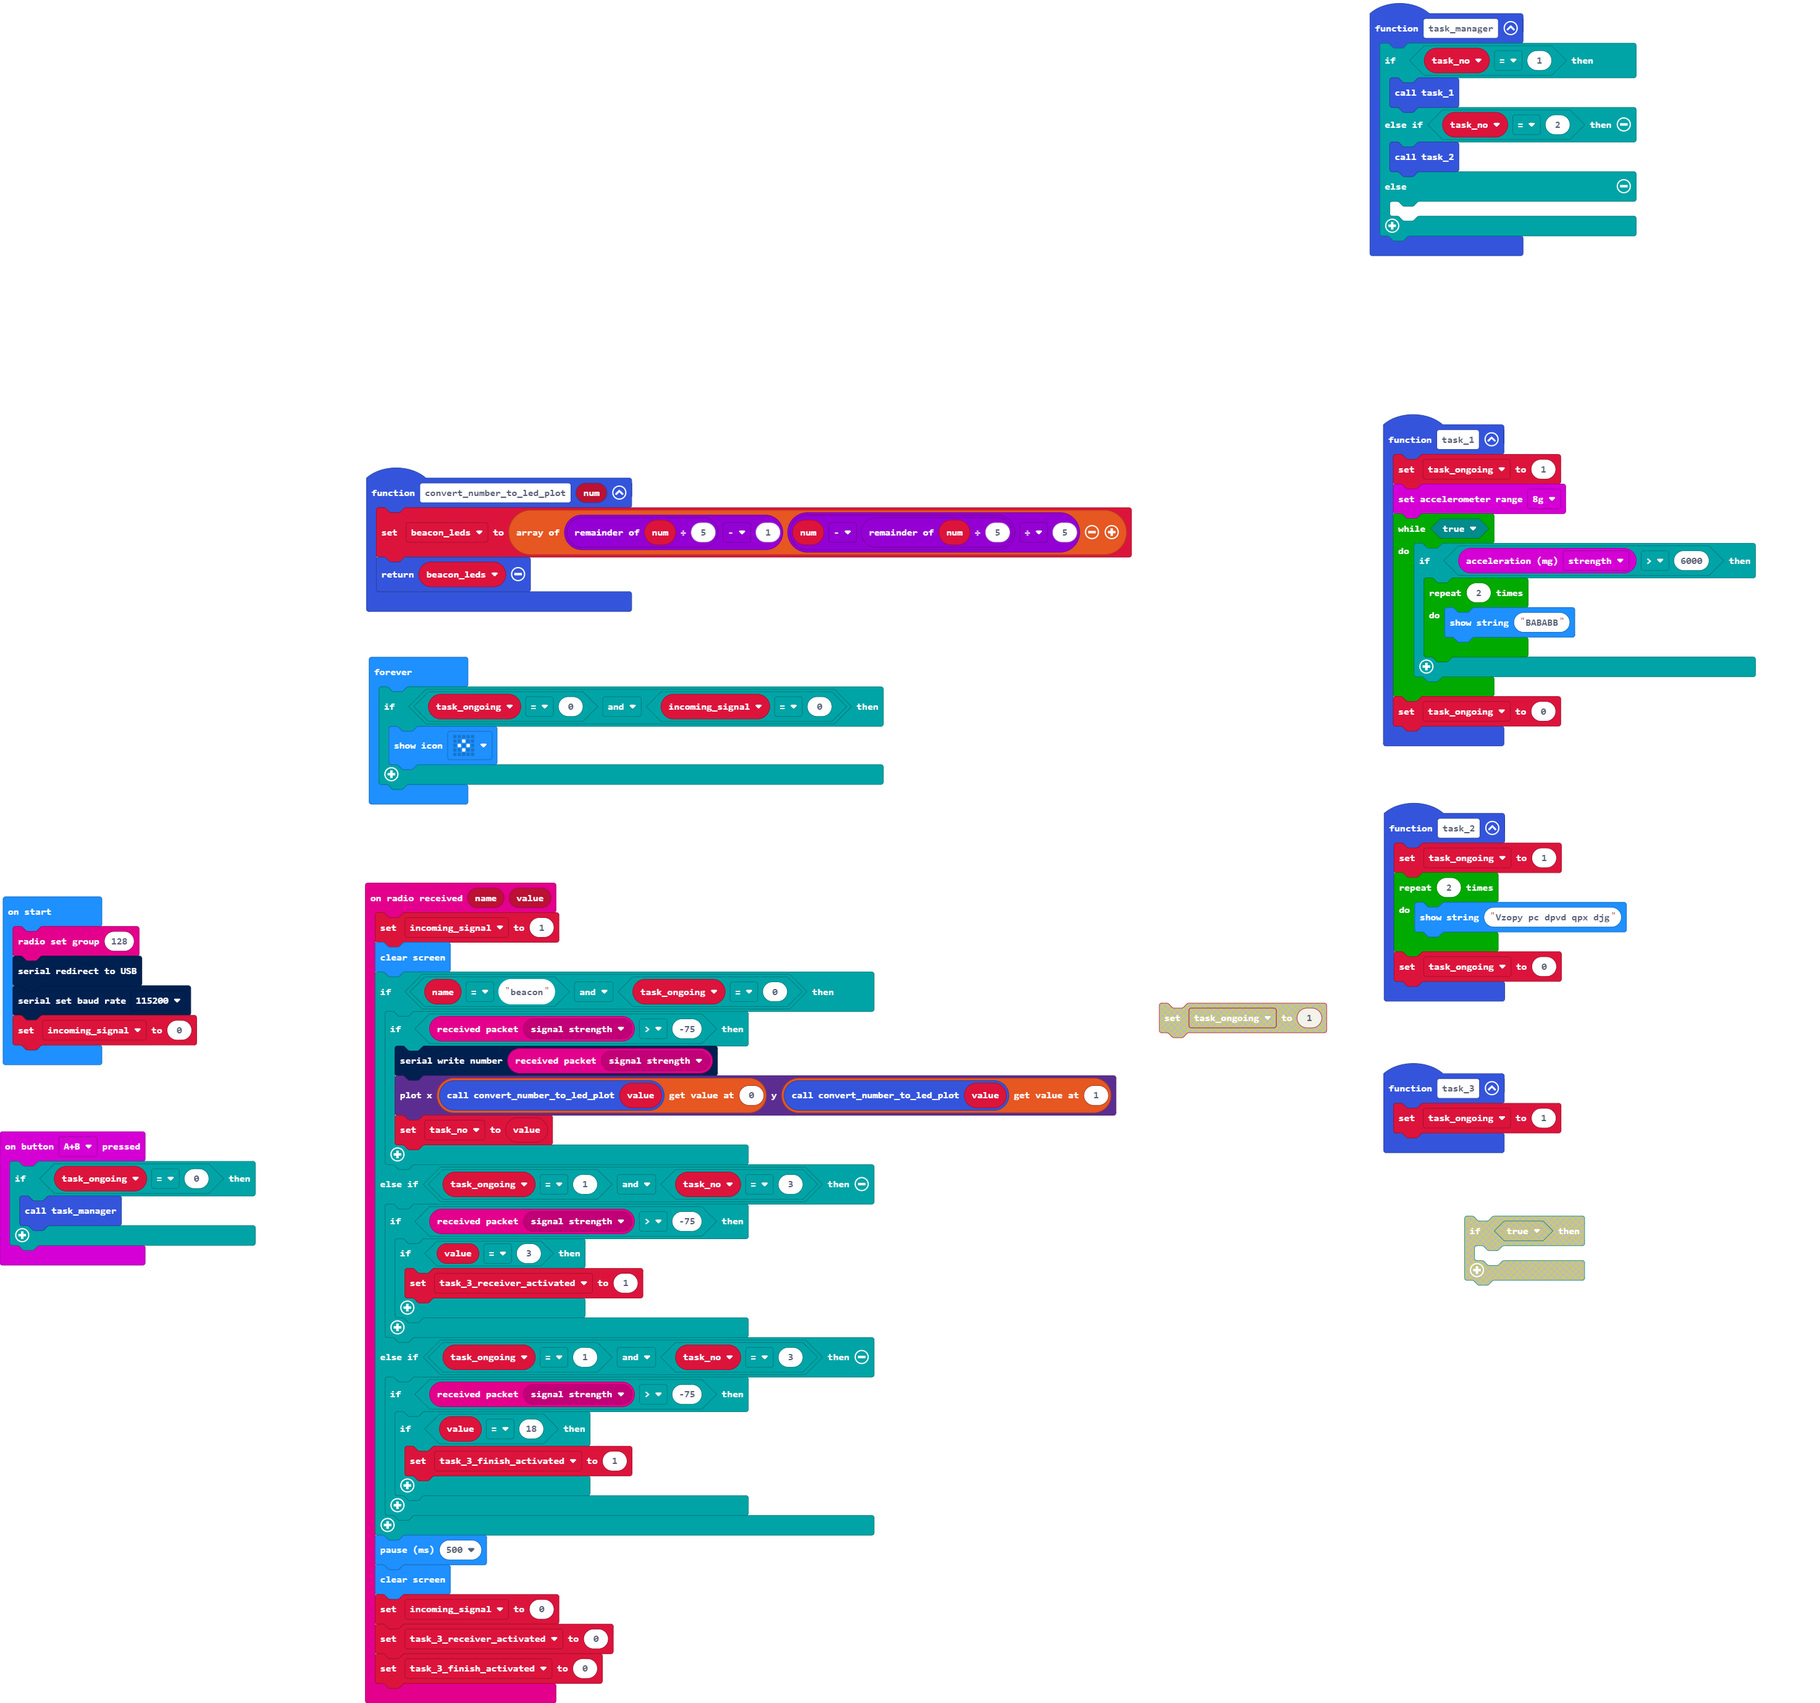
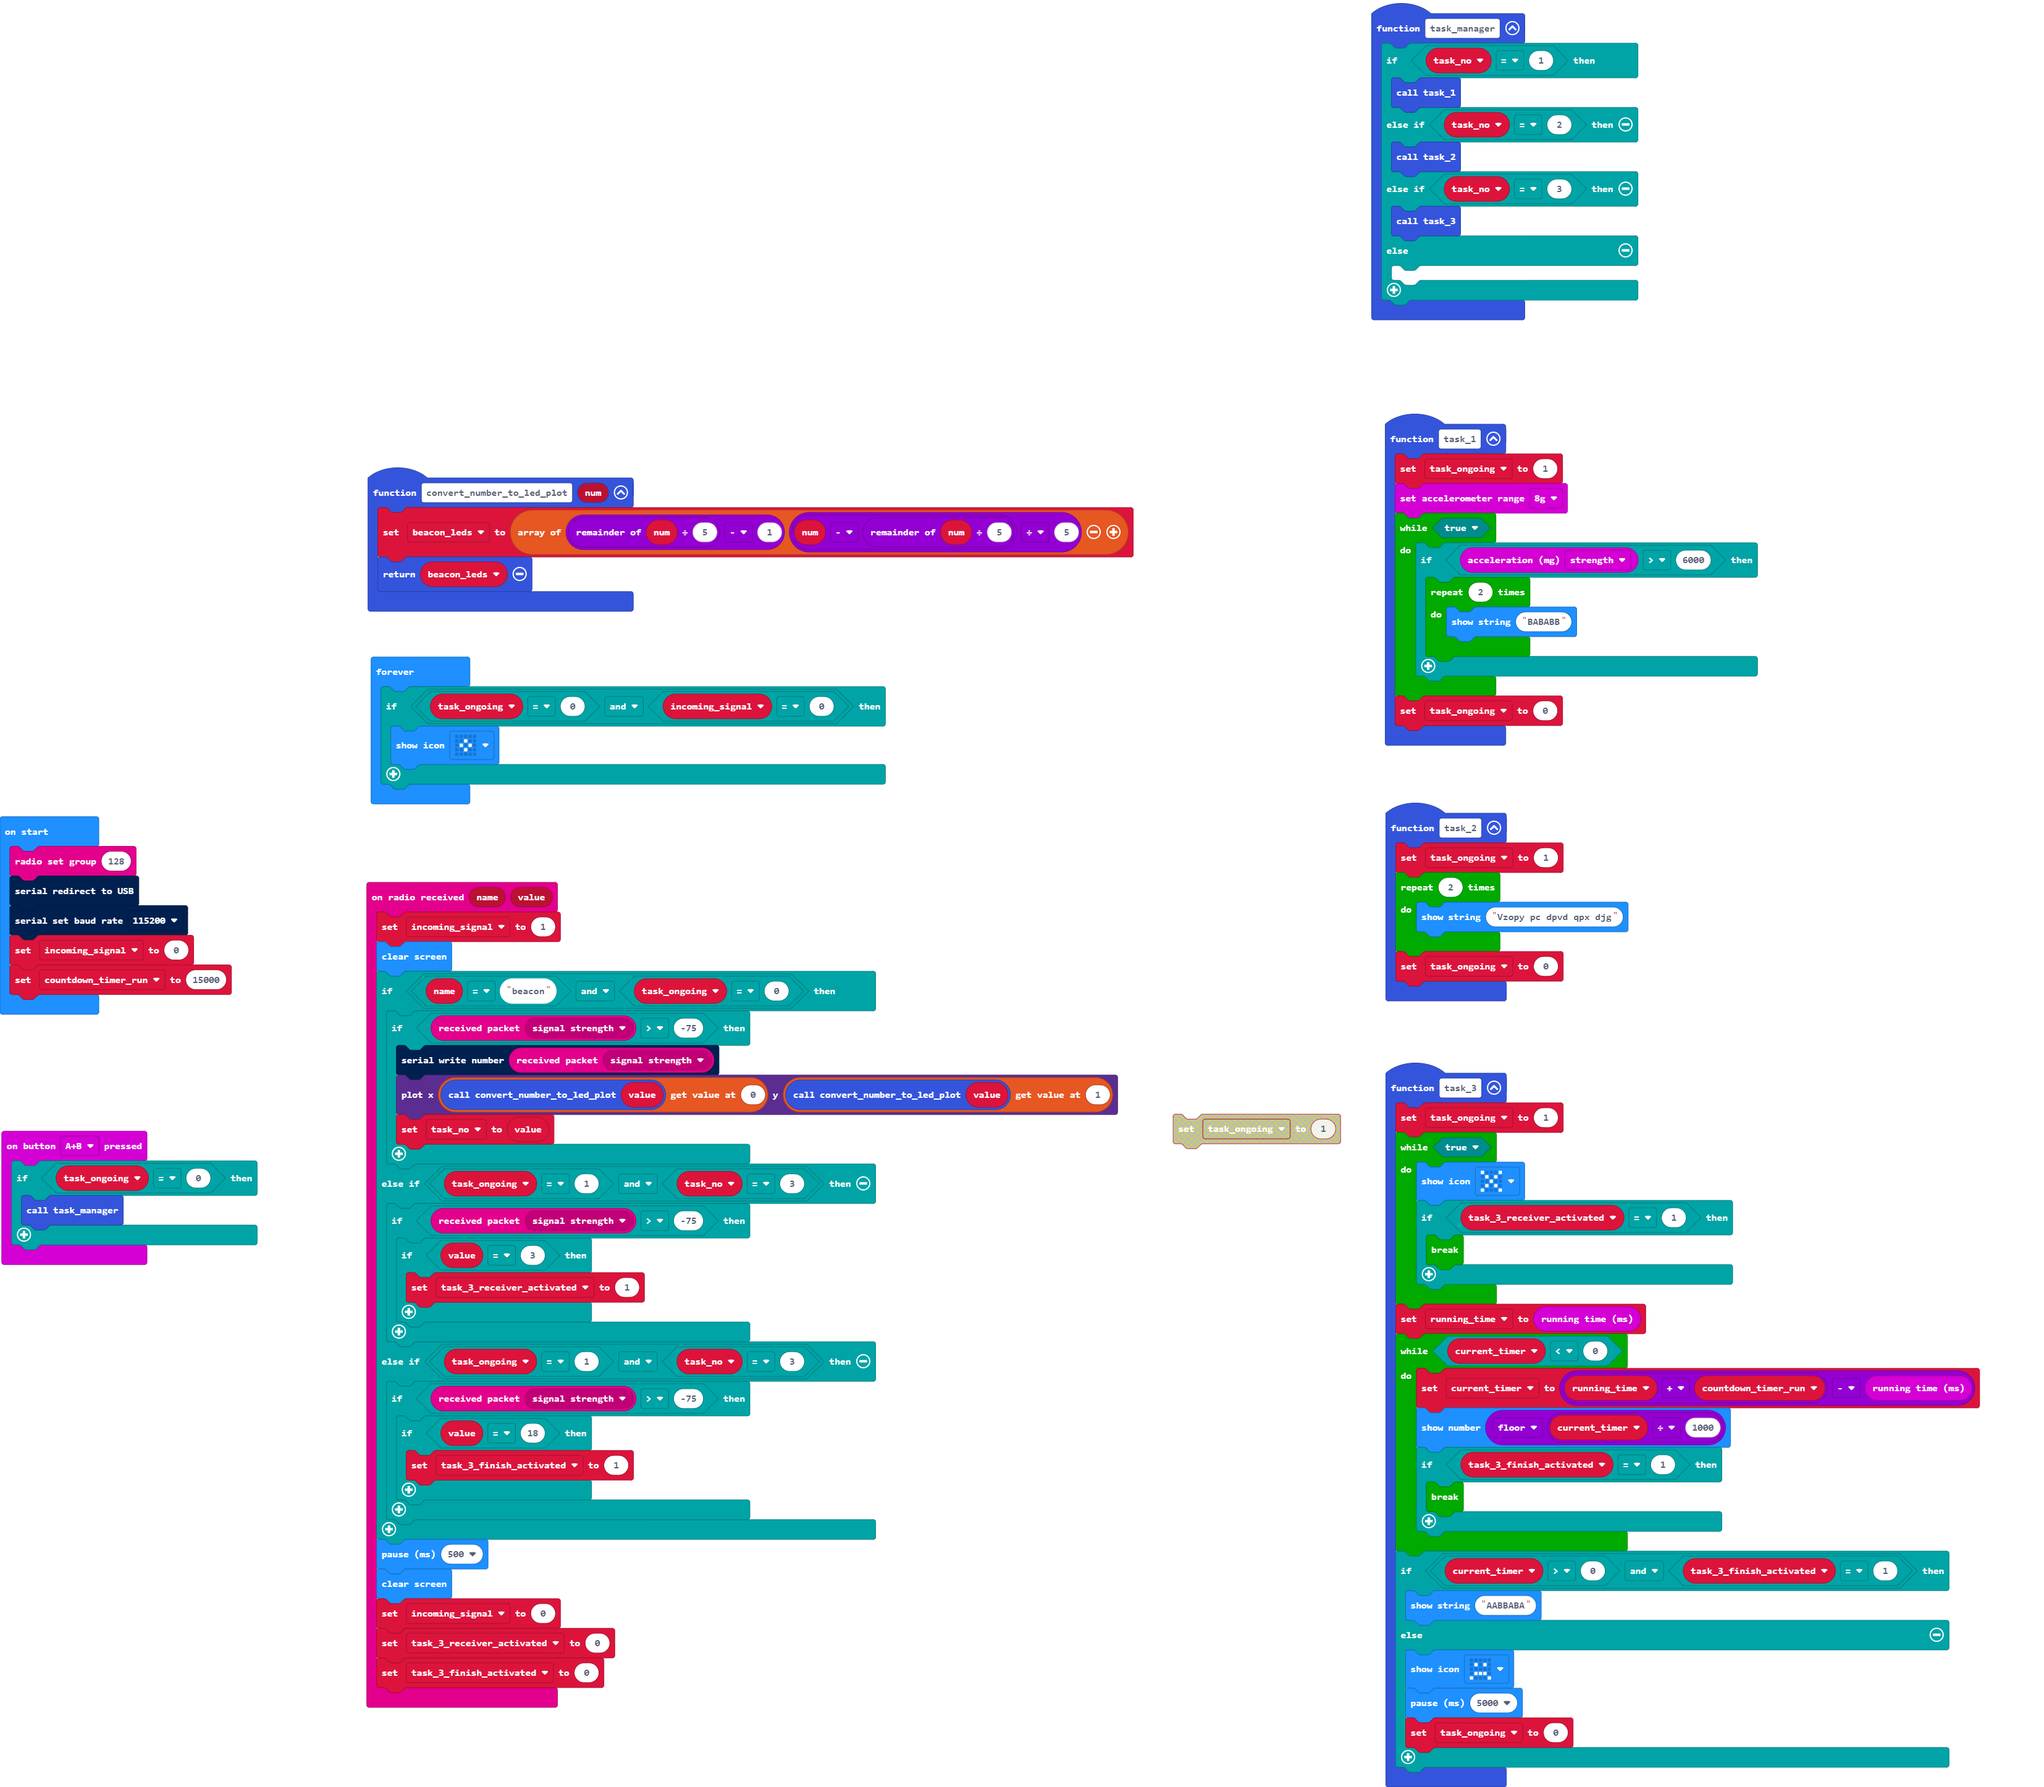
MAde task 3

Changed region(s): [[0.0, 0.2184, 0.9678, 1.0], [0.6556, 0.0, 0.9053, 0.1872]]

diff --git a/main.ts b/main.ts
@@ -1,5 +1,26 @@
 function task_3 () {
     task_ongoing = 1
+    while (true) {
+        basic.showIcon(IconNames.No)
+        if (task_3_receiver_activated == 1) {
+            break;
+        }
+    }
+    running_time = input.runningTime()
+    while (current_timer < 0) {
+        current_timer = running_time + countdown_timer_run - input.runningTime()
+        basic.showNumber(Math.floor(current_timer / 1000))
+        if (task_3_finish_activated == 1) {
+            break;
+        }
+    }
+    if (current_timer > 0 && task_3_finish_activated == 1) {
+        basic.showString("AABBABA")
+    } else {
+        basic.showIcon(IconNames.Sad)
+        basic.pause(5000)
+        task_ongoing = 0
+    }
 }
 function convert_number_to_led_plot (num: number) {
     beacon_leds = [num % 5 - 1, (num - num % 5) / 5]
@@ -29,6 +50,8 @@ function task_manager () {
         task_1()
     } else if (task_no == 2) {
         task_2()
+    } else if (task_no == 3) {
+        task_3()
     } else {
     	
     }
@@ -66,16 +89,20 @@ radio.onReceivedValue(function (name, value) {
     task_3_receiver_activated = 0
     task_3_finish_activated = 0
 })
-let task_3_finish_activated = 0
-let task_3_receiver_activated = 0
 let task_no = 0
 let beacon_leds: number[] = []
+let task_3_finish_activated = 0
+let current_timer = 0
+let running_time = 0
+let task_3_receiver_activated = 0
 let task_ongoing = 0
+let countdown_timer_run = 0
 let incoming_signal = 0
 radio.setGroup(128)
 serial.redirectToUSB()
 serial.setBaudRate(BaudRate.BaudRate115200)
 incoming_signal = 0
+countdown_timer_run = 15000
 basic.forever(function () {
     if (task_ongoing == 0 && incoming_signal == 0) {
         basic.showIcon(IconNames.SmallDiamond)
